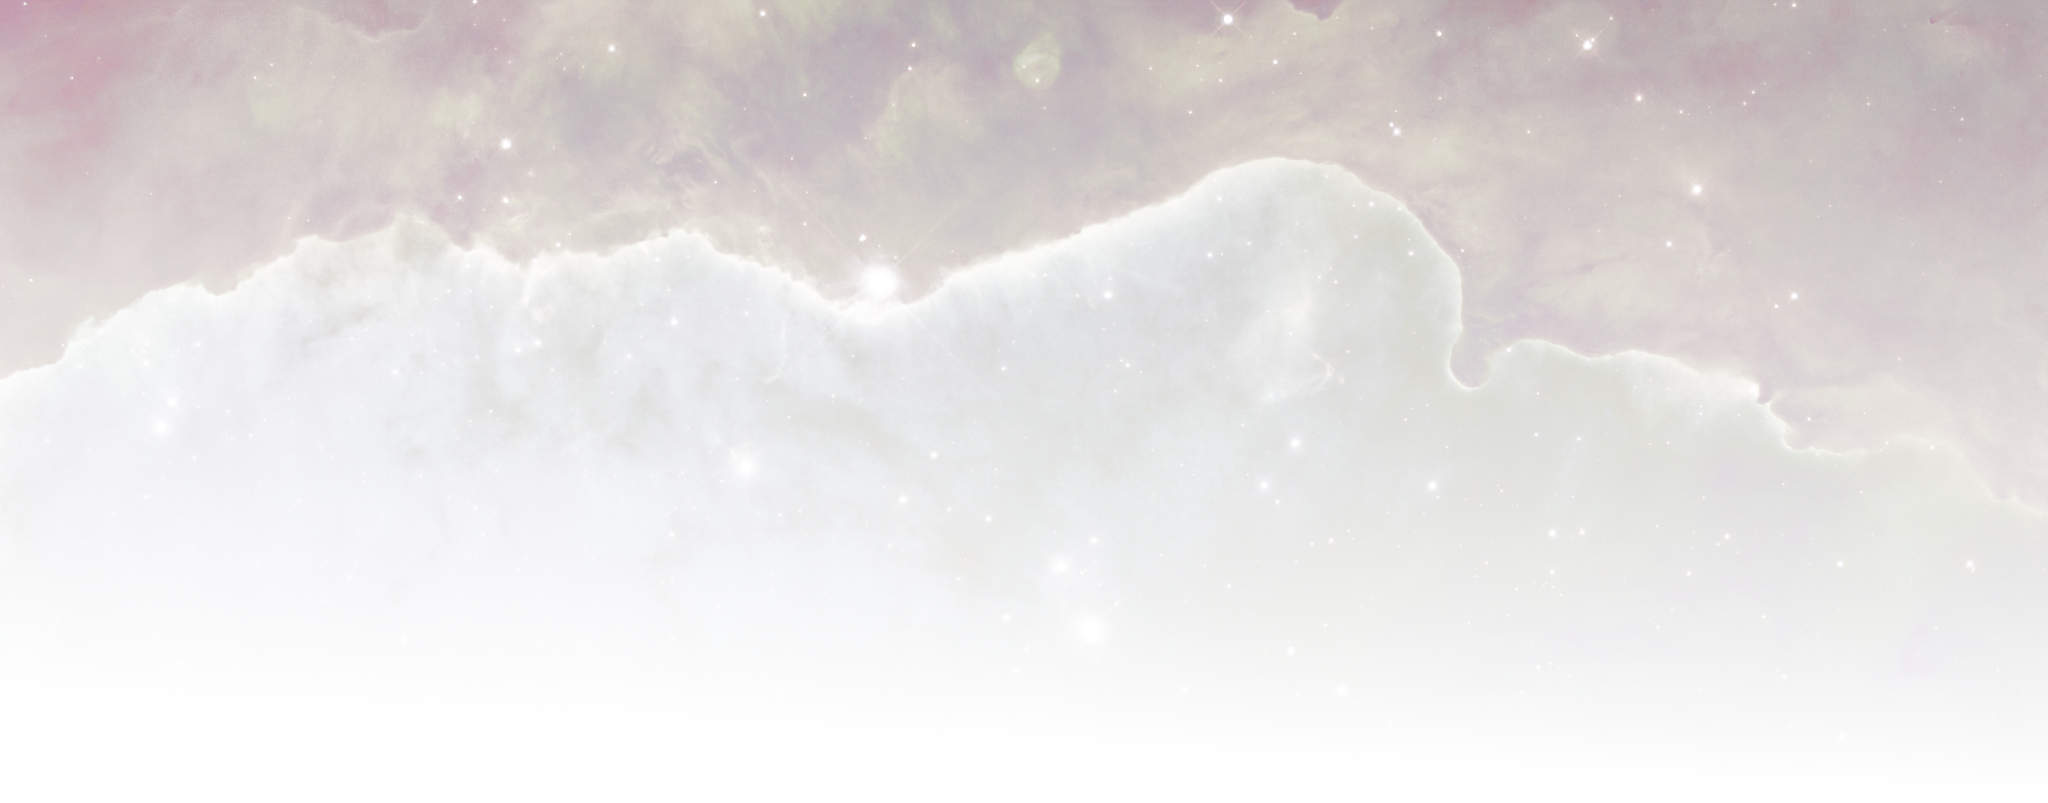
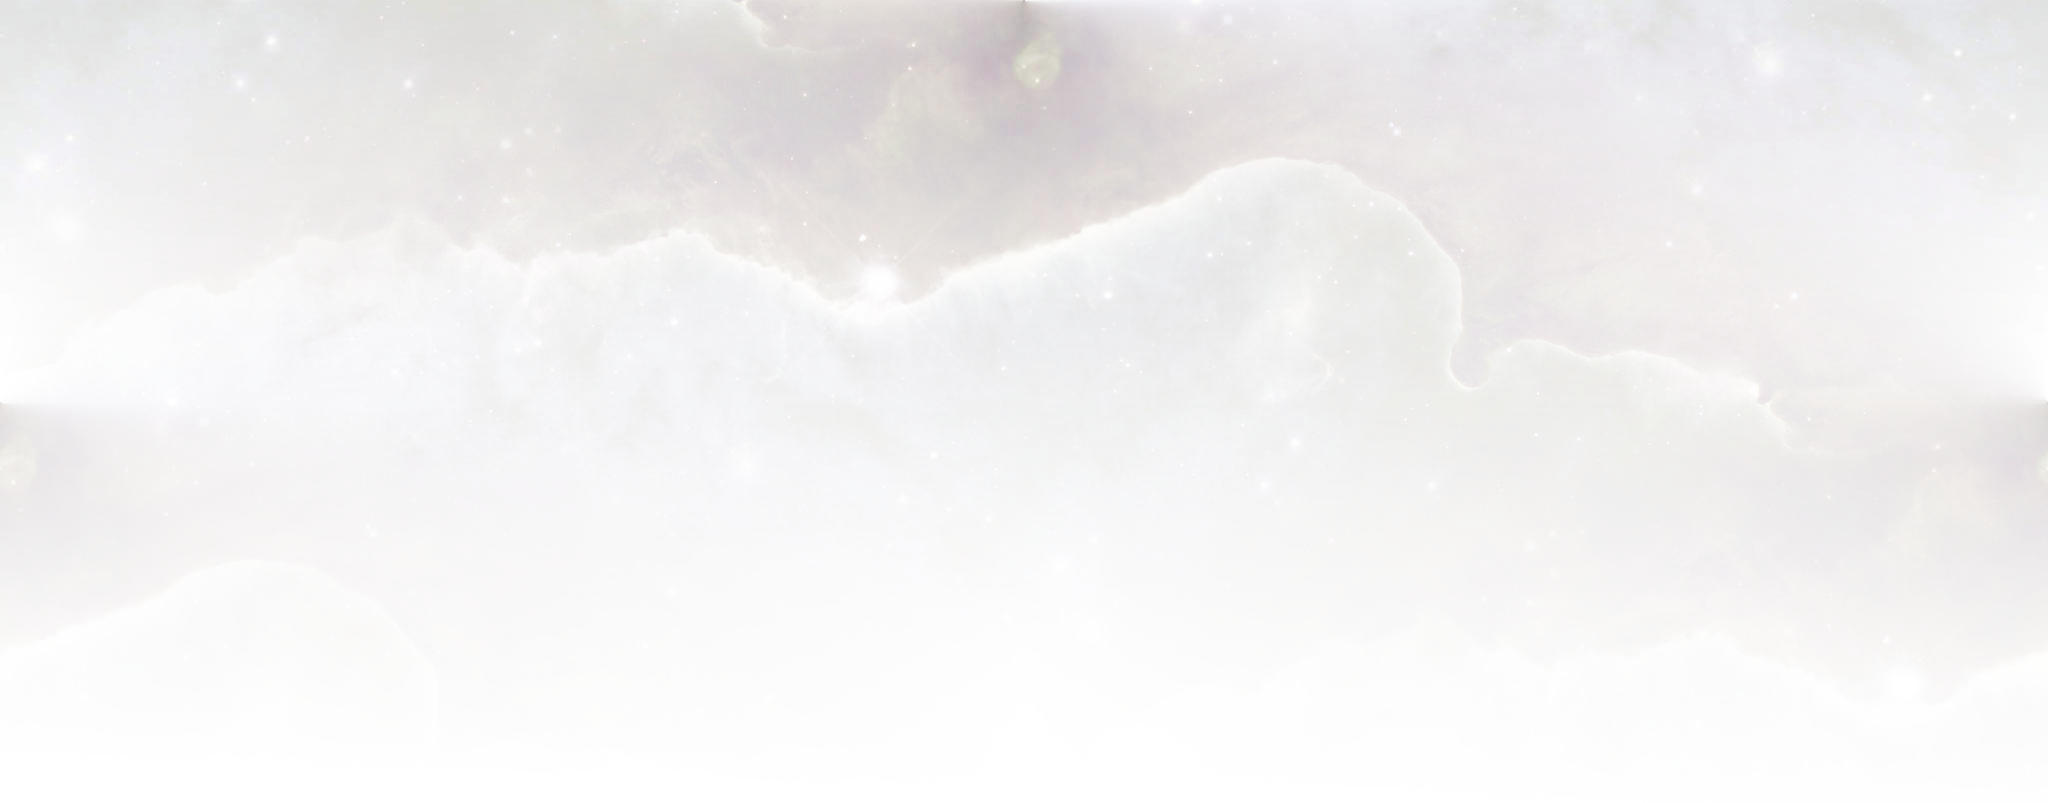
Center and make image seamless

Changed region(s): [[0.0, 0.0, 1.0, 0.4981]]

diff --git a/css/style.css b/css/style.css
@@ -56,7 +56,8 @@ body{
 
 #index {
         background-image: url("../images/background.jpg");
-        background-repeat: no-repeat;
+        background-repeat: repeat-x;
+        background-position: center top;
 }
 
 #wrapper{
